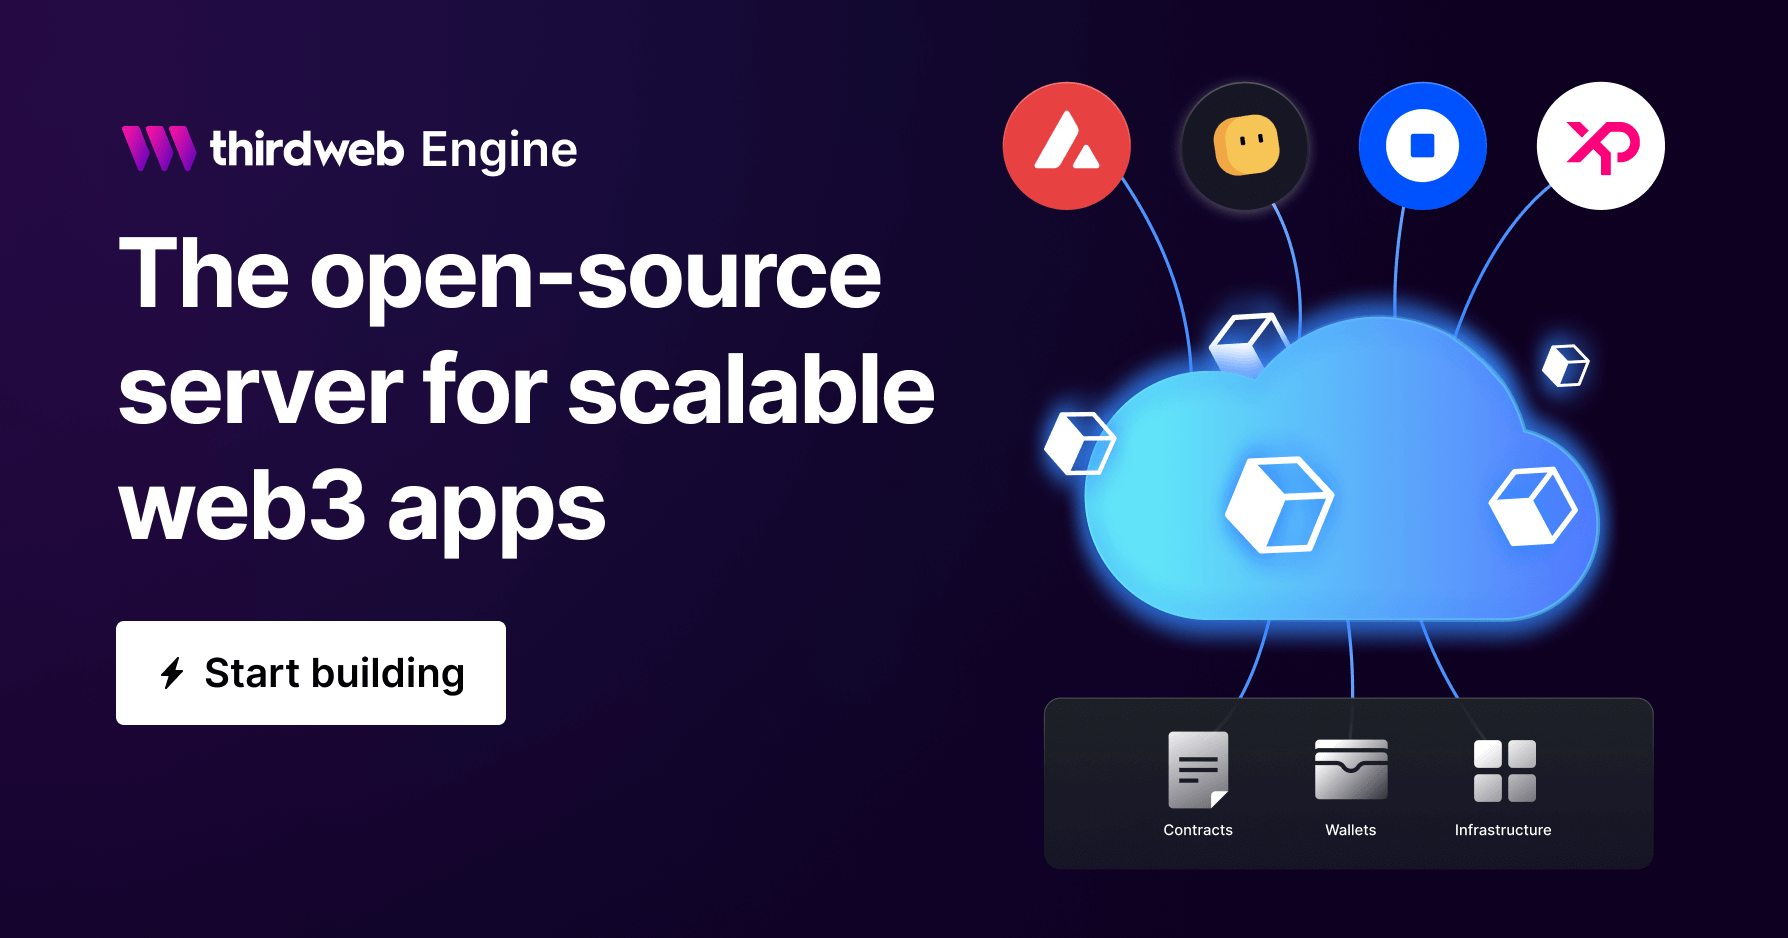
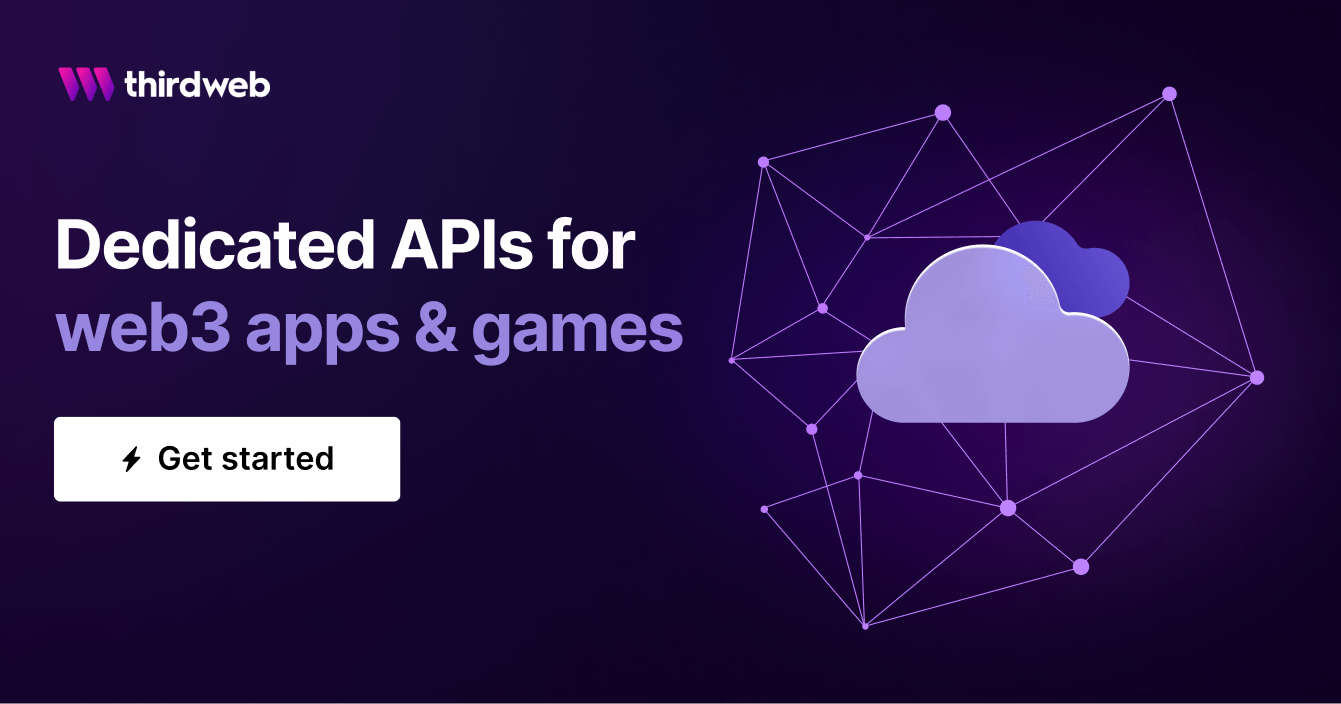
added gradients, fixed copy, og:image

diff --git a/src/pages/engine.tsx b/src/pages/engine.tsx
@@ -15,6 +15,7 @@ import { LandingGuidesShowcase } from "components/landing-pages/guide-showcase";
 import { LandingSectionHeading } from "components/landing-pages/section-heading";
 import { PricingEngine } from "components/homepage/sections/PricingEngine";
 import Head from "next/head";
+import { Gradients } from "components/landing-pages/gradients";
 import { engineFrames } from "lib/engine-frames";
 
 const TRACKING_CATEGORY = "engine-landing";
@@ -28,68 +29,84 @@ export const metrics = [
     mobileImage: require("../../public/assets/product-pages/engine/casestudy-image-coinbase-wallet.png"),
     items: [
       {
-        title: "50,000+",
-        description: "Smart accounts created",
-        colSpan: 4,
-      },
-    ],
-    href: "https://blog.thirdweb.com/case-studies/coinbase-brings-onchain-experiences-to-life/",
-    hoverBackground: "#622AFF",
-  },
-  {
-    title: "InfiniGods",
-    description:
-      "Building a free-to-play web3 game universe for everyone — with NFT avatars, tokens, and  that everyone canTorque Motorsport is a racing game with in-game items as NFTs from Nissan, Subaru, & Mazda.",
-    image: require("../../public/assets/product-pages/engine/casestudy-image-infinigods.png"),
-    mobileImage: require("../../public/assets/product-pages/engine/casestudy-image-infinigods.png"),
-    items: [
-      {
-        title: "330,000+",
-        description: "Players Onboarded",
-        colSpan: 4,
-      },
-    ],
-    href: "https://blog.thirdweb.com/case-studies/king-of-destiny-launches-avatar-nfts-thirdweb-engine/",
-    hoverBackground: "#0053FF",
-  },
-  {
-    title: "Stand With Crypto",
-    description:
-      "A tokenization and marketplace app for anyone to buy, trade, & own collectibles onchain — with fiat & crypto checkouts.",
-    image: require("../../public/assets/landingpage/case-study-courtyard.png"),
-    mobileImage: require("../../public/assets/landingpage/case-study-courtyard.png"),
-    items: [
-      {
         title: "1,000+",
         description: "Real-World Transactions",
-        colspan: 2,
+        colSpan: 2,
       },
       {
         title: "4 Weeks",
         description: "Total Development Time",
-        colspan: 4,
+        colSpan: 2,
       },
     ],
     href: "https://blog.thirdweb.com/case-studies/coinbase-brings-onchain-experiences-to-life/",
     hoverBackground: "#0053FF",
+  },
+  {
+    title: "InfiniGods",
+    description:
+      "Building a free-to-play web3 game universe — with interoperable onchain assets that players truly own.",
+    image: require("../../public/assets/product-pages/engine/casestudy-image-infinigods.png"),
+    mobileImage: require("../../public/assets/product-pages/engine/casestudy-image-infinigods.png"),
+    items: [
+      {
+        title: "100k+",
+        description: "Daily Users",
+      },
+      {
+        title: "1.5M+",
+        description: "Monthly Transactions",
+        colSpan: 2,
+      },
+      {
+        title: "10k+",
+        description: "VIP Members",
+      },
+    ],
+    href: "https://blog.thirdweb.com/case-studies/king-of-destiny-launches-avatar-nfts-thirdweb-engine/",
+    hoverBackground: "#CD6C09",
+  },
+  {
+    title: "Stand With Crypto",
+    description:
+      "Championing common-sense crypto regulation to unlock its potential and foster greater economic freedom — via a grassroots advocacy hub.",
+    image: require("../../public/assets/landingpage/case-study-layer3.png"),
+    mobileImage: require("../../public/assets/landingpage/case-study-layer3.png"),
+    items: [
+      {
+        title: "$86M+",
+        description: "Donations Raised",
+      },
+      {
+        title: "445K+",
+        description: "Crypto Advocates",
+        colSpan: 2,
+      },
+      {
+        title: "164K+",
+        description: "Policymaker Contacts",
+      },
+    ],
+    href: "https://blog.thirdweb.com/case-studies/layer3-powers-web3-adoption-through-gamified-experiences-nft-rewards/",
+    hoverBackground: "#6504FF",
   },
 ];
 
 const GUIDES = [
   {
-    title: "The Quick-Start Guide to thirdweb Connect",
+    title: "The Quick-Start Guide to thirdweb Engine",
     image: require("/public/assets/product-pages/connect/get-started.png"),
-    link: "https://portal.thirdweb.com/react/latest/components/ConnectWallet",
+    link: "https://portal.thirdweb.com/engine/get-started",
   },
   {
-    title: "Add a Connect Wallet Button to Your App or Website",
+    title: "Airdrop Tokens and NFTs to Users",
     image: require("/public/assets/product-pages/connect/connect-wallet.png"),
-    link: "https://blog.thirdweb.com/guides/add-connectwallet-to-your-website/",
+    link: "https://portal.thirdweb.com/engine/guides/airdrop-nfts",
   },
   {
-    title: "Create Your Own Custom Connect Wallet Button",
+    title: "Create a Gasless NFT Mint Farcaster Frame",
     image: require("/public/assets/product-pages/connect/custom-connect.png"),
-    link: "https://blog.thirdweb.com/guides/create-a-custom-connect-wallet-button/",
+    link: "https://blog.thirdweb.com/guides/create-an-nft-mint-farcaster-frame/",
   },
 ];
 
@@ -99,9 +116,9 @@ const EngineLanding: ThirdwebNextPage = () => {
       bgColor="#0F0F0F"
       py={0}
       seo={{
-        title: "Engine: Open-Source Server for Scalable Web3 Apps",
+        title: "Engine: Dedicated APIs for Web3 Apps and Games",
         description:
-          "A production-grade HTTP server to generate backend wallets on any EVM blockchain—with smart contracts, auth, gasless transactions, & managed infra. Get started.",
+          "Scalable smart contract APIs backed by secure wallets, with automatic nonce queuing & gas-optimized retries—on any EVM blockchain. Get started.",
         openGraph: {
           images: [
             {
@@ -188,7 +205,7 @@ const EngineLanding: ThirdwebNextPage = () => {
             trackingCategory={TRACKING_CATEGORY}
             ctaText="Spin up an instance"
             ctaLink="/dashboard/engine"
-            gradient="linear(to-r, #9786DF, #9786DF)"
+            gradient="linear(to-r, #FFFFFF, #FFFFFF)"
             lottie={require("../../public/assets/product-pages/engine/lottie2.json")}
           />
           <LandingGridSection
@@ -325,7 +342,7 @@ const EngineLanding: ThirdwebNextPage = () => {
             />
             <LandingCardWithImage
               title="Advanced analytics"
-              description="View transaction history trends, event logs for each transaction, a ledger of backend wallet funds, and more. (Coming soon)"
+              description="View transaction history trends, event logs for each transaction, a ledger of backend wallet funds, and more."
               image={require("../../public/assets/landingpage/desktop/analytics-v3.png")}
               mobileImage={require("../../public/assets/landingpage/mobile/analytics-v3.png")}
               TRACKING_CATEGORY={TRACKING_CATEGORY}
@@ -394,9 +411,30 @@ const EngineLanding: ThirdwebNextPage = () => {
             ctaText="Get started"
             ctaLink="/dashboard/engine"
             contactUsTitle="Book a demo"
-            gradient="linear(to-r, #BFA3DA, #84309C, #C735B0)"
+            gradient="linear(to-r, #FFFFFF, #FFFFFF)"
           />
         </Container>
+
+        <Gradients
+          top={{
+            top: 100,
+            left: 0,
+            right: 0,
+            height: "2286px",
+            width: "100%",
+            background: `url("/assets/landingpage/top-gradient.svg")`,
+            backgroundSize: { base: "cover", lg: "100% 100%" },
+          }}
+          bottom={{
+            bottom: -200,
+            left: 0,
+            right: 0,
+            height: "1386px",
+            width: "100%",
+            background: `url("/assets/landingpage/bottom-gradient.png")`,
+            backgroundSize: { base: "cover", lg: "100% 100%" },
+          }}
+        />
       </Flex>
     </LandingLayout>
   );
